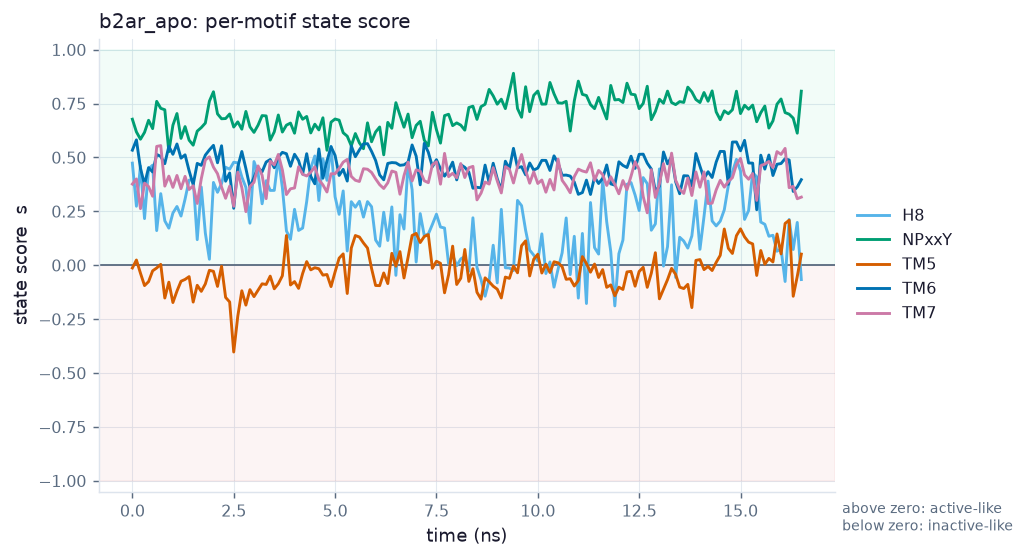
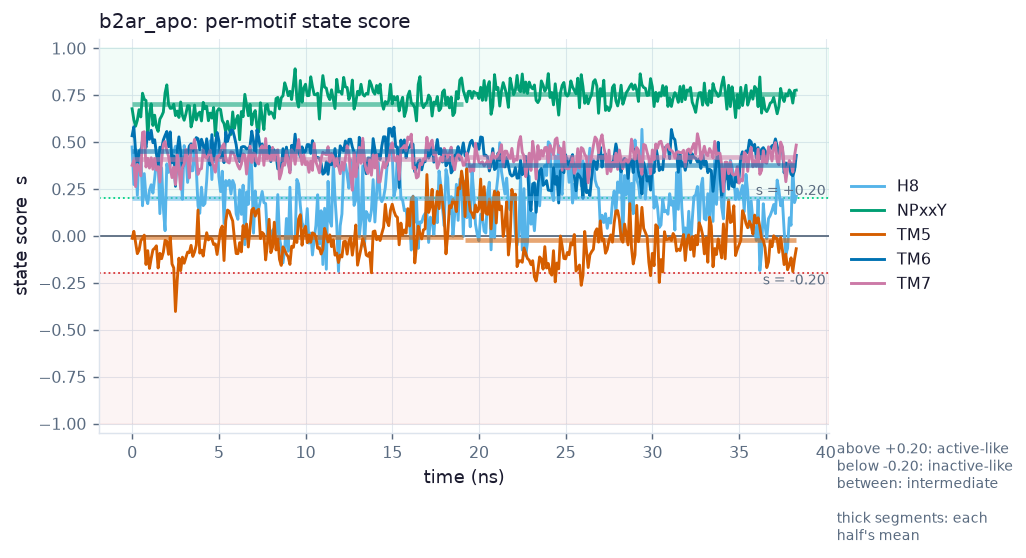
the committed figures were drawn by code that no longer existed
data/figures/ holds seven PNGs and they are committed, which is the point of
them: section 11 asks for FINDINGS with figures and a figure nobody can see
without running a tool is not one. The final pass regenerates them, and it does
not run until the queue drains, about two more days.

In between, the repository was showing figures drawn at 04:04 by a version of
make_figures.py that no longer exists. Their bands were shaded from zero rather
than from DECISIVE_S and they carried no half-means, both of which the text
beside them in FINDINGS describes. Regenerated: four of the seven changed, the
other three byte-identical, which is right, because abl1_apo has produced no
new frames while it waits in the queue and the bilayer still has two chunks.

The test for it had to be written twice. The obvious form compares each
figure's mtime against the script's, and that is worthless here: a checkout
writes every file at checkout time, so the comparison means whatever order git
unpacked them in, and a test that passes or fails for no reason is worse than
no test because it teaches people to ignore a red suite. What git does keep is
when each path was last committed, and "was the drawing changed after the
drawings were" is exactly that comparison. It asks git log for
tools/make_figures.py and for data/figures and skips outside a checkout.

It failed on being written, correctly, the script having been committed four
[…]

diff --git a/tests/test_refstates.py b/tests/test_refstates.py
@@ -5017,3 +5017,44 @@ def test_the_published_dfg_cut_has_one_definition():
     assert '"published_threshold": 11.0' not in view
     body = (root / "kinase.py").read_text()
     assert "cutoff = DFG_PUBLISHED_A" in body
+
+
+def test_the_committed_figures_are_not_older_than_the_code_that_draws_them():
+    """They were, by nine hours and three changes to the drawing.
+
+    `data/figures/` is committed, so it is what anyone browsing the repository
+    sees, and the final pass that regenerates it does not run until the queue
+    drains. Between the two, the repository can show a figure drawn by code
+    that no longer exists: the committed set shaded its bands from zero rather
+    than from `DECISIVE_S` and carried no half-means, both of which the
+    document beside them describes.
+
+    Compared on commit dates and not on mtimes. A checkout gives every file the
+    time it was written to disk, so an mtime comparison here would mean
+    whatever order git happened to unpack them in, which is a test that passes
+    or fails for no reason. What git does keep is when each path was last
+    committed, and "the drawing changed after the drawings did" is exactly the
+    question.
+    """
+    import subprocess
+
+    root = Path(__file__).resolve().parents[1]
+    if not (root / ".git").exists():
+        pytest.skip("not a git checkout")
+    if not list((root / "data" / "figures").glob("*.png")):
+        pytest.skip("no figures committed in this checkout")
+
+    def last_commit(path: str) -> int:
+        done = subprocess.run(
+            ["git", "log", "-1", "--format=%ct", "--", path],
+            cwd=root, capture_output=True, text=True)
+        return int(done.stdout.strip() or 0)
+
+    script = last_commit("tools/make_figures.py")
+    figures = last_commit("data/figures")
+    if not script or not figures:
+        pytest.skip("no history for one of the two paths")
+    assert figures >= script, (
+        "tools/make_figures.py was committed after the figures it draws, so "
+        "data/figures/ is showing output from code that no longer exists; "
+        "run it and commit the result")

diff --git a/GATE_OPEN.md b/GATE_OPEN.md
@@ -26,7 +26,7 @@ section deleted the whole table, which is a poor place to keep the results.
 | A failed row is recorded as failed | yes, by the queue; it previously showed as `running` for ever |
 | G-REUSE on an unseen protein | CDK2 annotates against **28 of its 29** references, core agreement 0.49 A, score +0.364 active; was 1 of 29 before the alignment target was chosen by modal core length (D020, D021) |
 | CLI runs as a script | yes, after the `__main__` guard was moved below the subcommands; `build|run|annotate|report` all present |
-| FINDINGS figures | 6 committed, regenerated by `tools/make_figures.py` in the final pass |
+| FINDINGS figures | 7 committed and current, regenerated by `tools/make_figures.py` in the final pass. Their bands are drawn at `state.DECISIVE_S` rather than zero, and each motif carries its two half-means |
 | Section 6.2 viewer | scrubber and bilayer toggle built; cartoon colouring and reference overlay declared missing on the page and in D023 |
 | Section 6.2 Examples card | thumbnail, atom count, simulated time and a generated finding, all from the database |
 | Section 6.2 motif table | all six columns, after the nearest reference was added; the timelines are a different chart from the one specified, recorded in 4u |
@@ -38,6 +38,12 @@ section deleted the whole table, which is a poor place to keep the results.
 | Section 12.2 `CLAUDE.md` | written, with the two lines the user overrode changed and marked |
 | Section 12.1 `.claude/settings.json` | not written; its deny list blocks the push the user authorised (D024) |
 | Section 10's five pytest items | all five present; the membrane 5 ps smoke skips while production holds the GPU, body proved on CPU |
+| Section 10's all-NaN rule | `verify_live_metrics`, run by `report --verify` in the final pass. The round-trip verifier cannot see this one: an all-NaN metric agrees with its own analysis file. Reports a metric NaN in every frame, a value with no state score, and a motif with no rows at all |
+| Section 10's threshold labelling | every plot's threshold drawn and labelled, and a check that no page writes one out in prose: it found four, on the index, About and reference pages |
+| A short row cannot certify itself | `run.json` records `produced_ns` from the context, not the target it was asked for, and a row more than 50 ps short records `short:<n>_of_<target>ns` |
+| A rented GPU cannot silently fall back | `--require-platform`, passed as CUDA by `deploy/runpod/job.sh`; the fallback ladder's last rung is a fiftieth of the speed |
+| Streaming survives a gap between rows | the liveness check names the queue as well as the runner and requires an absence to persist; a single look in a row boundary would have ended the streaming and run the final pass on a partial trajectory |
+| The viewer draws one periodic image | beta2AR sits on a boundary, so 11 of 26 frames were in the other one and the camera fitted a 187 A box. Corrected for the picture only; every metric is within-frame and unaffected |
 | Stored numbers against their analyses | `report --verify`, run in the final pass; every number agrees across 11 motifs and 2 rows |
 | Final pass, end to end | rehearsed with the loop stopped: analyse, probe, figures, verify, controls; exit 0, and it found the verify step alarming on every success |
 | Section 6.2 badge strip | one badge per motif, server-rendered at frame 0, following the scrubber; shape, colour and label |

diff --git a/FINDINGS.md b/FINDINGS.md
@@ -3111,6 +3111,40 @@ paths the explorer reads are still not in the exclude list. The second had to
 be scoped to lines that are not comments, because the script's own explanation
 of why not to use the gitignore filter contains the gitignore filter.
 
+## 4au. The committed figures were drawn by code that no longer existed
+
+`data/figures/` holds seven PNGs and they are committed, which is the point of
+them: section 11 asks for FINDINGS with figures, and a figure nobody can see
+without running a tool is not one. The final pass regenerates them, and the
+final pass does not run until the queue drains, which is about two more days.
+
+In between, the repository was showing figures drawn at 04:04 by a version of
+`tools/make_figures.py` that no longer exists. Their bands were shaded from
+zero rather than from `DECISIVE_S`, they carried no half-means, and the text
+beside them in this document described both. Four of the seven changed when
+regenerated; the other three are byte-identical, which is right, because
+`abl1_apo` has produced no new frames while it waits in the queue and the
+bilayer still has the same two chunks.
+
+The gate table also said "6 committed" where there are seven.
+
+### A test that had to be written twice
+
+The obvious check is that no figure is older than the script. Written against
+file mtimes it is worthless: a checkout writes every file at checkout time, so
+the comparison means whatever order git happened to unpack them in, and a test
+that passes or fails for no reason is worse than no test because it teaches
+people to ignore a red suite.
+
+What git does keep is when each path was last committed, and the question
+"was the drawing changed after the drawings were" is exactly a comparison of
+those two. So it asks `git log -1 --format=%ct` for `tools/make_figures.py` and
+for `data/figures`, and skips rather than guesses outside a checkout.
+
+It failed on being written, correctly: the script had been committed four times
+tonight and the figures had not been regenerated since. It passes once both go
+in together, which is the workflow it exists to enforce.
+
 ## 5. Production runs
 
 Tier 2 started at 17:04 on 10 October, in section 5.3's priority order: β2AR

diff --git a/BUILD_LOG.md b/BUILD_LOG.md
@@ -1050,3 +1050,26 @@ config/benchmarks.toml is written by hwprobe in the final pass so its staleness
 between passes is expected.
 
 FINDINGS 4at. Two tests added, 994 passed, 1 skipped.
+
+### 11 October, 13:09 to 13:35
+
+The committed figures in `data/figures/` were drawn at 04:04 by a version of
+`tools/make_figures.py` that no longer exists: bands from zero rather than
+`DECISIVE_S`, no half-means. The final pass regenerates them and does not run
+for two more days, so the repository was showing superseded output that
+FINDINGS describes. Regenerated: four of seven changed, three byte-identical
+because abl1_apo has produced no frames while it waits in the queue.
+
+A test now compares the last commit date of the script against the last commit
+date of the directory. Written first against file mtimes, which a checkout
+destroys, so it meant whatever order git unpacked things in. It failed on being
+written, correctly, and passes once both go in together.
+
+GATE_OPEN's acceptance table updated: it said six figures where there are
+seven, and it now records tonight's guarantees as their own rows, including
+section 10's all-NaN rule, the threshold labelling and the prose check, the
+short-row recording, --require-platform, the streaming grace and the periodic
+correction.
+
+FINDINGS 4au. One test added. 994 passed with the new test red until this
+commit lands, which is the state it is asserting about.
